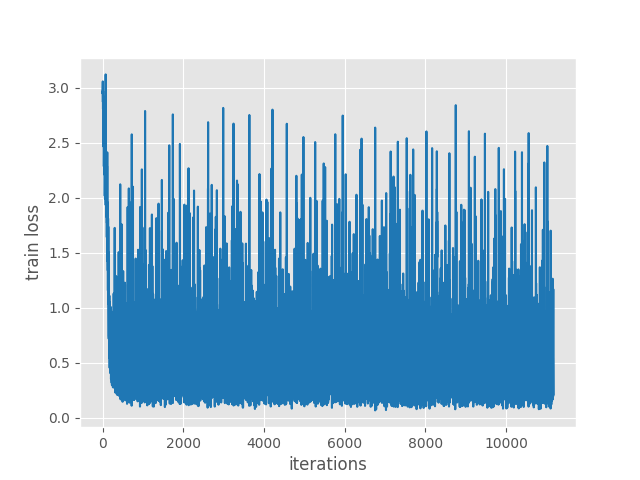
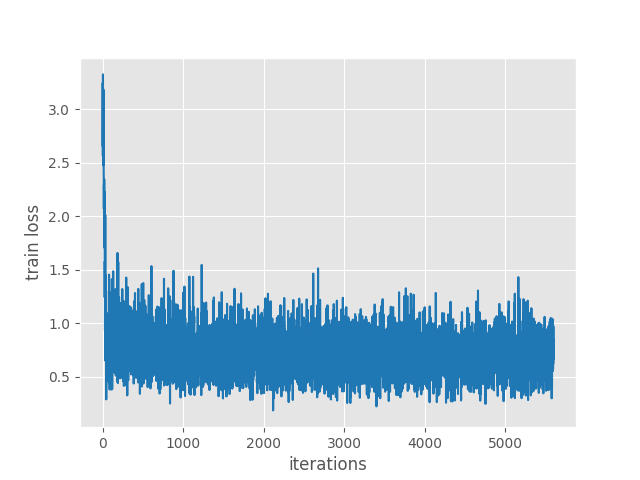
Added MobileNetV3 Large 320 FPN and MobileNetV3 Large FPN models

diff --git a/models/fasterrcnn_mobilenetv3_large_320_fpn.py b/models/fasterrcnn_mobilenetv3_large_320_fpn.py
@@ -1,0 +1,17 @@
+import torchvision
+
+from torchvision.models.detection.faster_rcnn import FastRCNNPredictor
+
+def create_model(num_classes):
+    
+    # load Faster RCNN pre-trained model
+    model = torchvision.models.detection.fasterrcnn_mobilenet_v3_large_320_fpn(
+        pretrained=True
+    )
+    
+    # get the number of input features 
+    in_features = model.roi_heads.box_predictor.cls_score.in_features
+    # define a new head for the detector with required number of classes
+    model.roi_heads.box_predictor = FastRCNNPredictor(in_features, num_classes) 
+
+    return model

diff --git a/models/fasterrcnn_mobilenetv3_large_fpn.py b/models/fasterrcnn_mobilenetv3_large_fpn.py
@@ -1,0 +1,17 @@
+import torchvision
+
+from torchvision.models.detection.faster_rcnn import FastRCNNPredictor
+
+def create_model(num_classes):
+    
+    # load Faster RCNN pre-trained model
+    model = torchvision.models.detection.fasterrcnn_mobilenet_v3_large_fpn(
+        pretrained=True
+    )
+    
+    # get the number of input features 
+    in_features = model.roi_heads.box_predictor.cls_score.in_features
+    # define a new head for the detector with required number of classes
+    model.roi_heads.box_predictor = FastRCNNPredictor(in_features, num_classes) 
+
+    return model

diff --git a/config.py b/config.py
@@ -1,8 +1,8 @@
 import torch
 
-BATCH_SIZE = 1 # increase / decrease according to GPU memeory
+BATCH_SIZE = 4 # increase / decrease according to GPU memeory
 RESIZE_TO = 416 # resize the image for training and transforms
-NUM_EPOCHS = 25 # number of epochs to train for
+NUM_EPOCHS = 50 # number of epochs to train for
 NUM_WORKERS = 4
 
 DEVICE = torch.device('cuda') if torch.cuda.is_available() else torch.device('cpu')

diff --git a/train.py b/train.py
@@ -10,7 +10,7 @@ from datasets import (
     create_train_dataset, create_valid_dataset, 
     create_train_loader, create_valid_loader
 )
-from models.fasterrcnn_efficientnet_b4 import create_model
+from models.fasterrcnn_mobilenetv3_large_320_fpn import create_model
 from custom_utils import (
     save_model, 
     save_train_loss_plot,

diff --git a/inference.py b/inference.py
@@ -5,7 +5,7 @@ import glob as glob
 import os
 import time
 
-from models.fasterrcnn_efficientnet_b4 import create_model
+from models.fasterrcnn_mobilenetv3_large_320_fpn import create_model
 
 from config import (
     NUM_CLASSES, DEVICE, CLASSES
